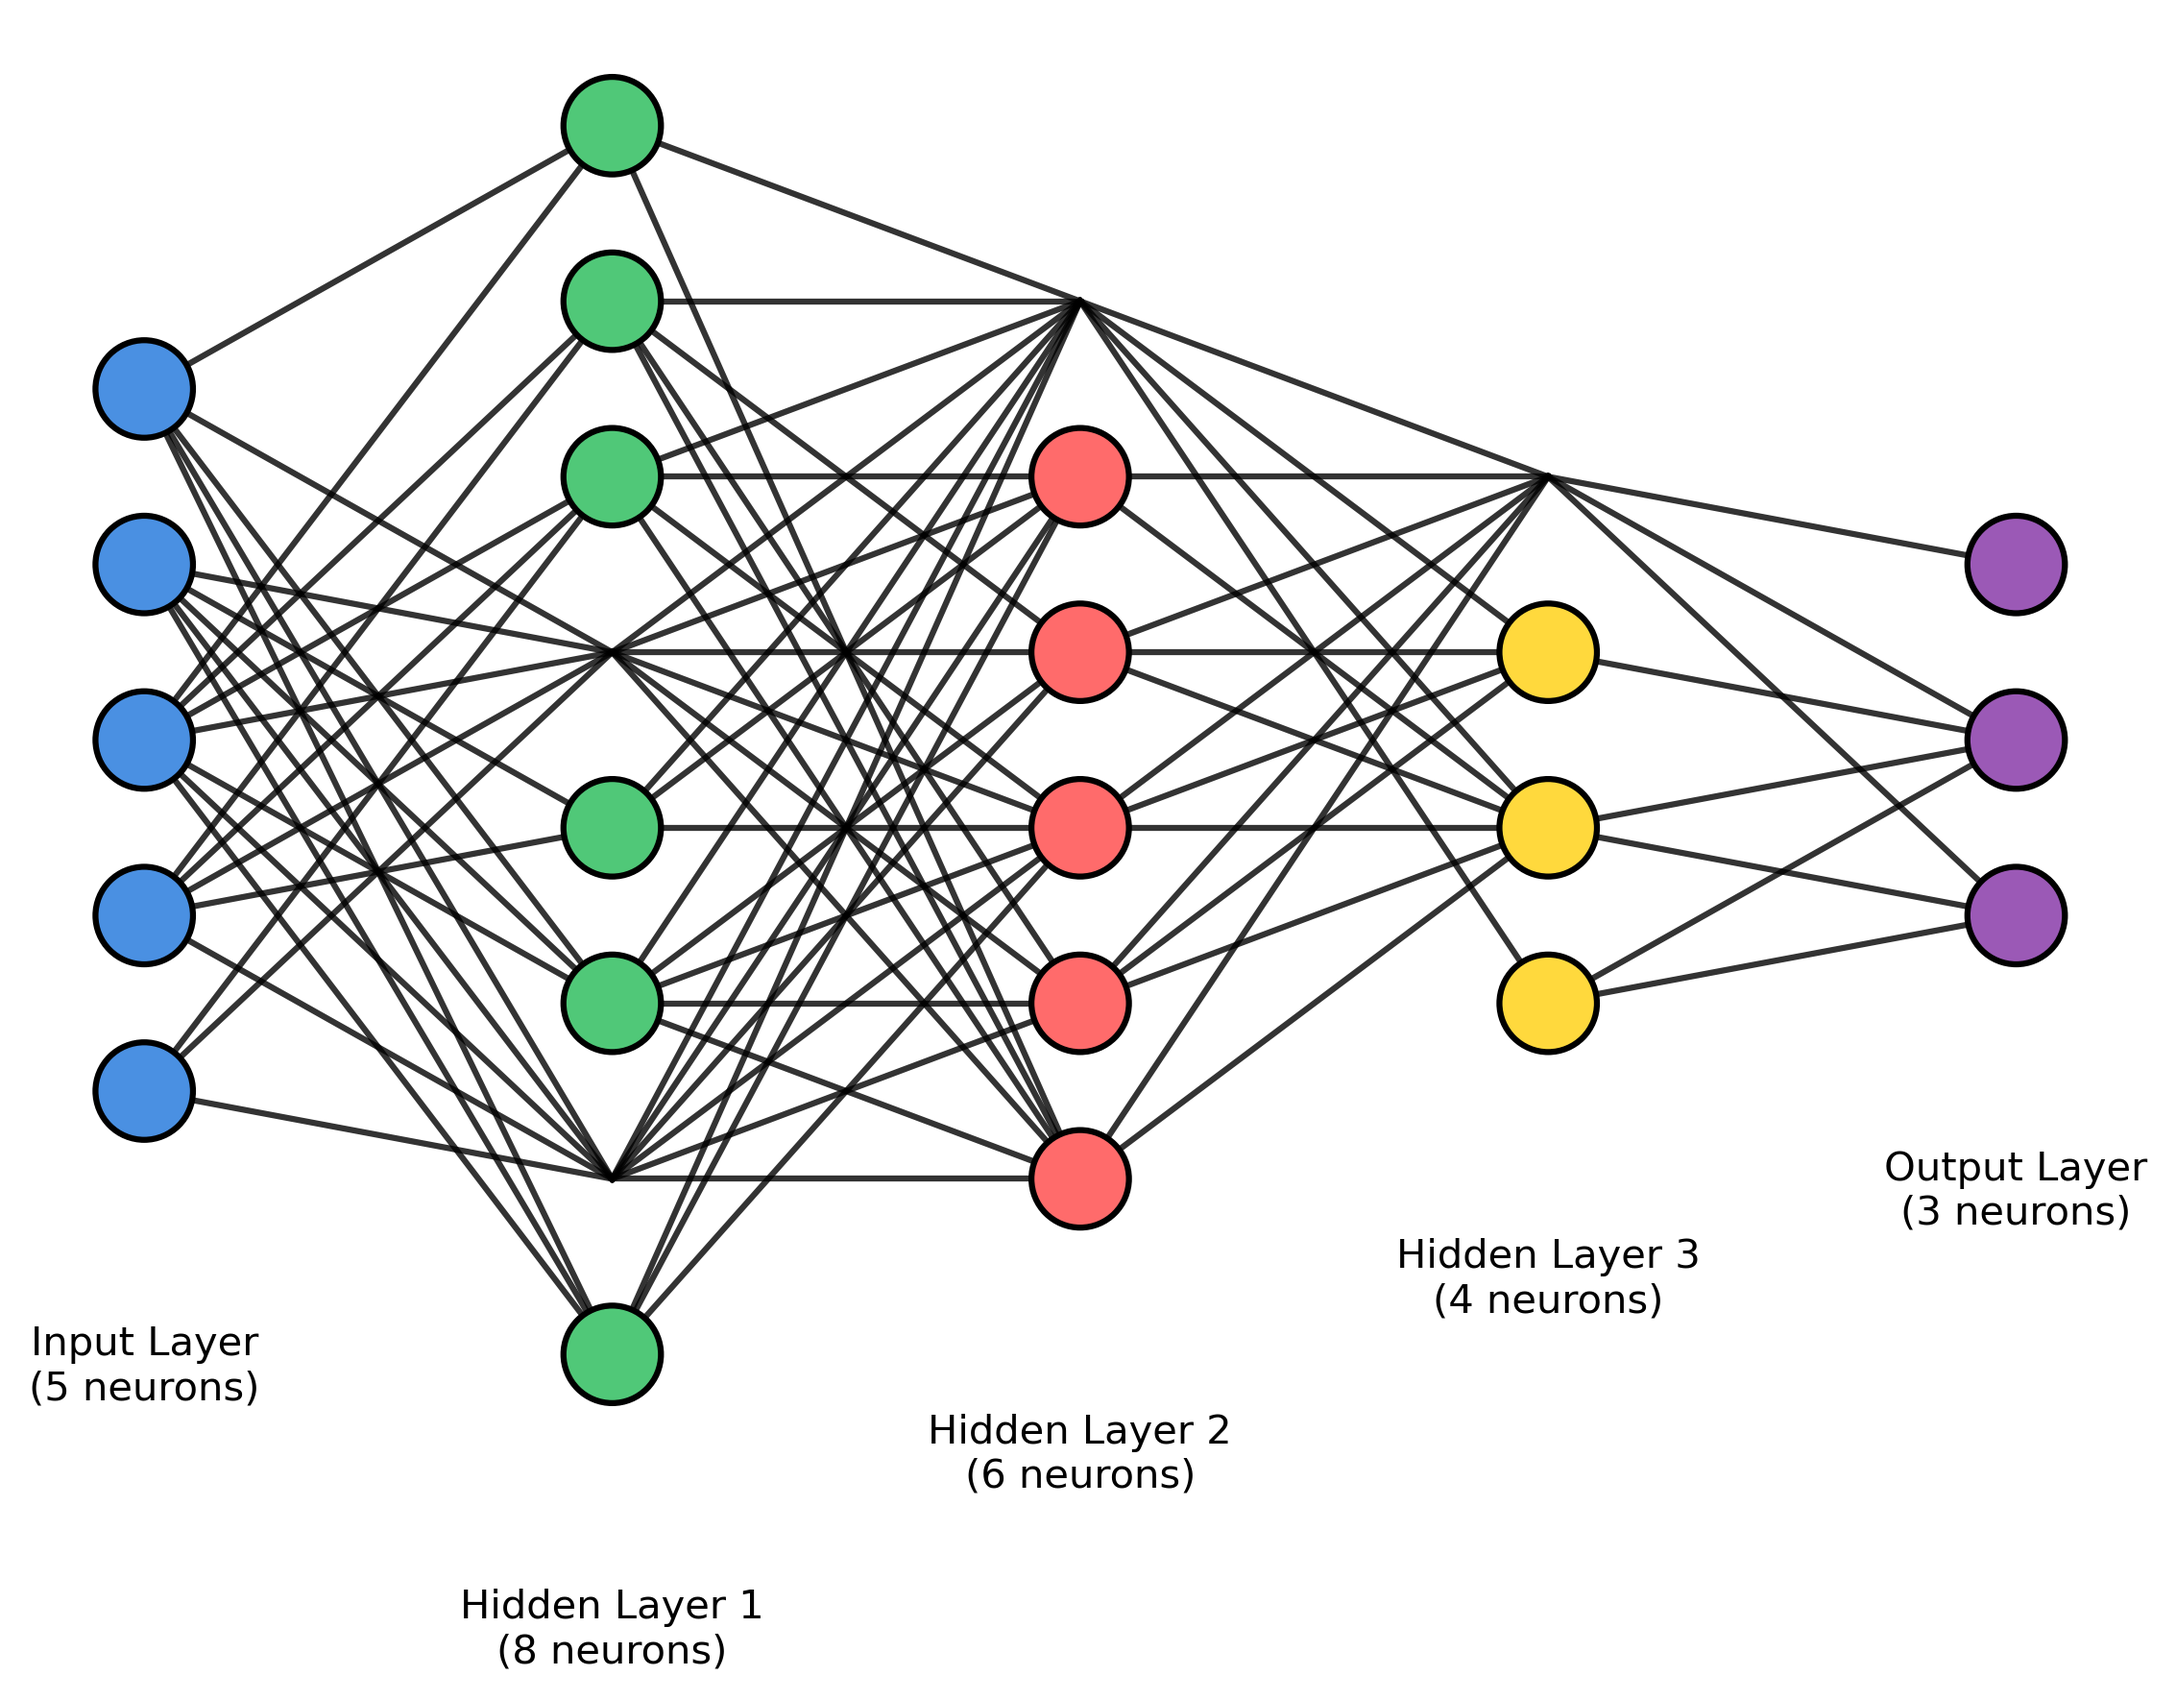
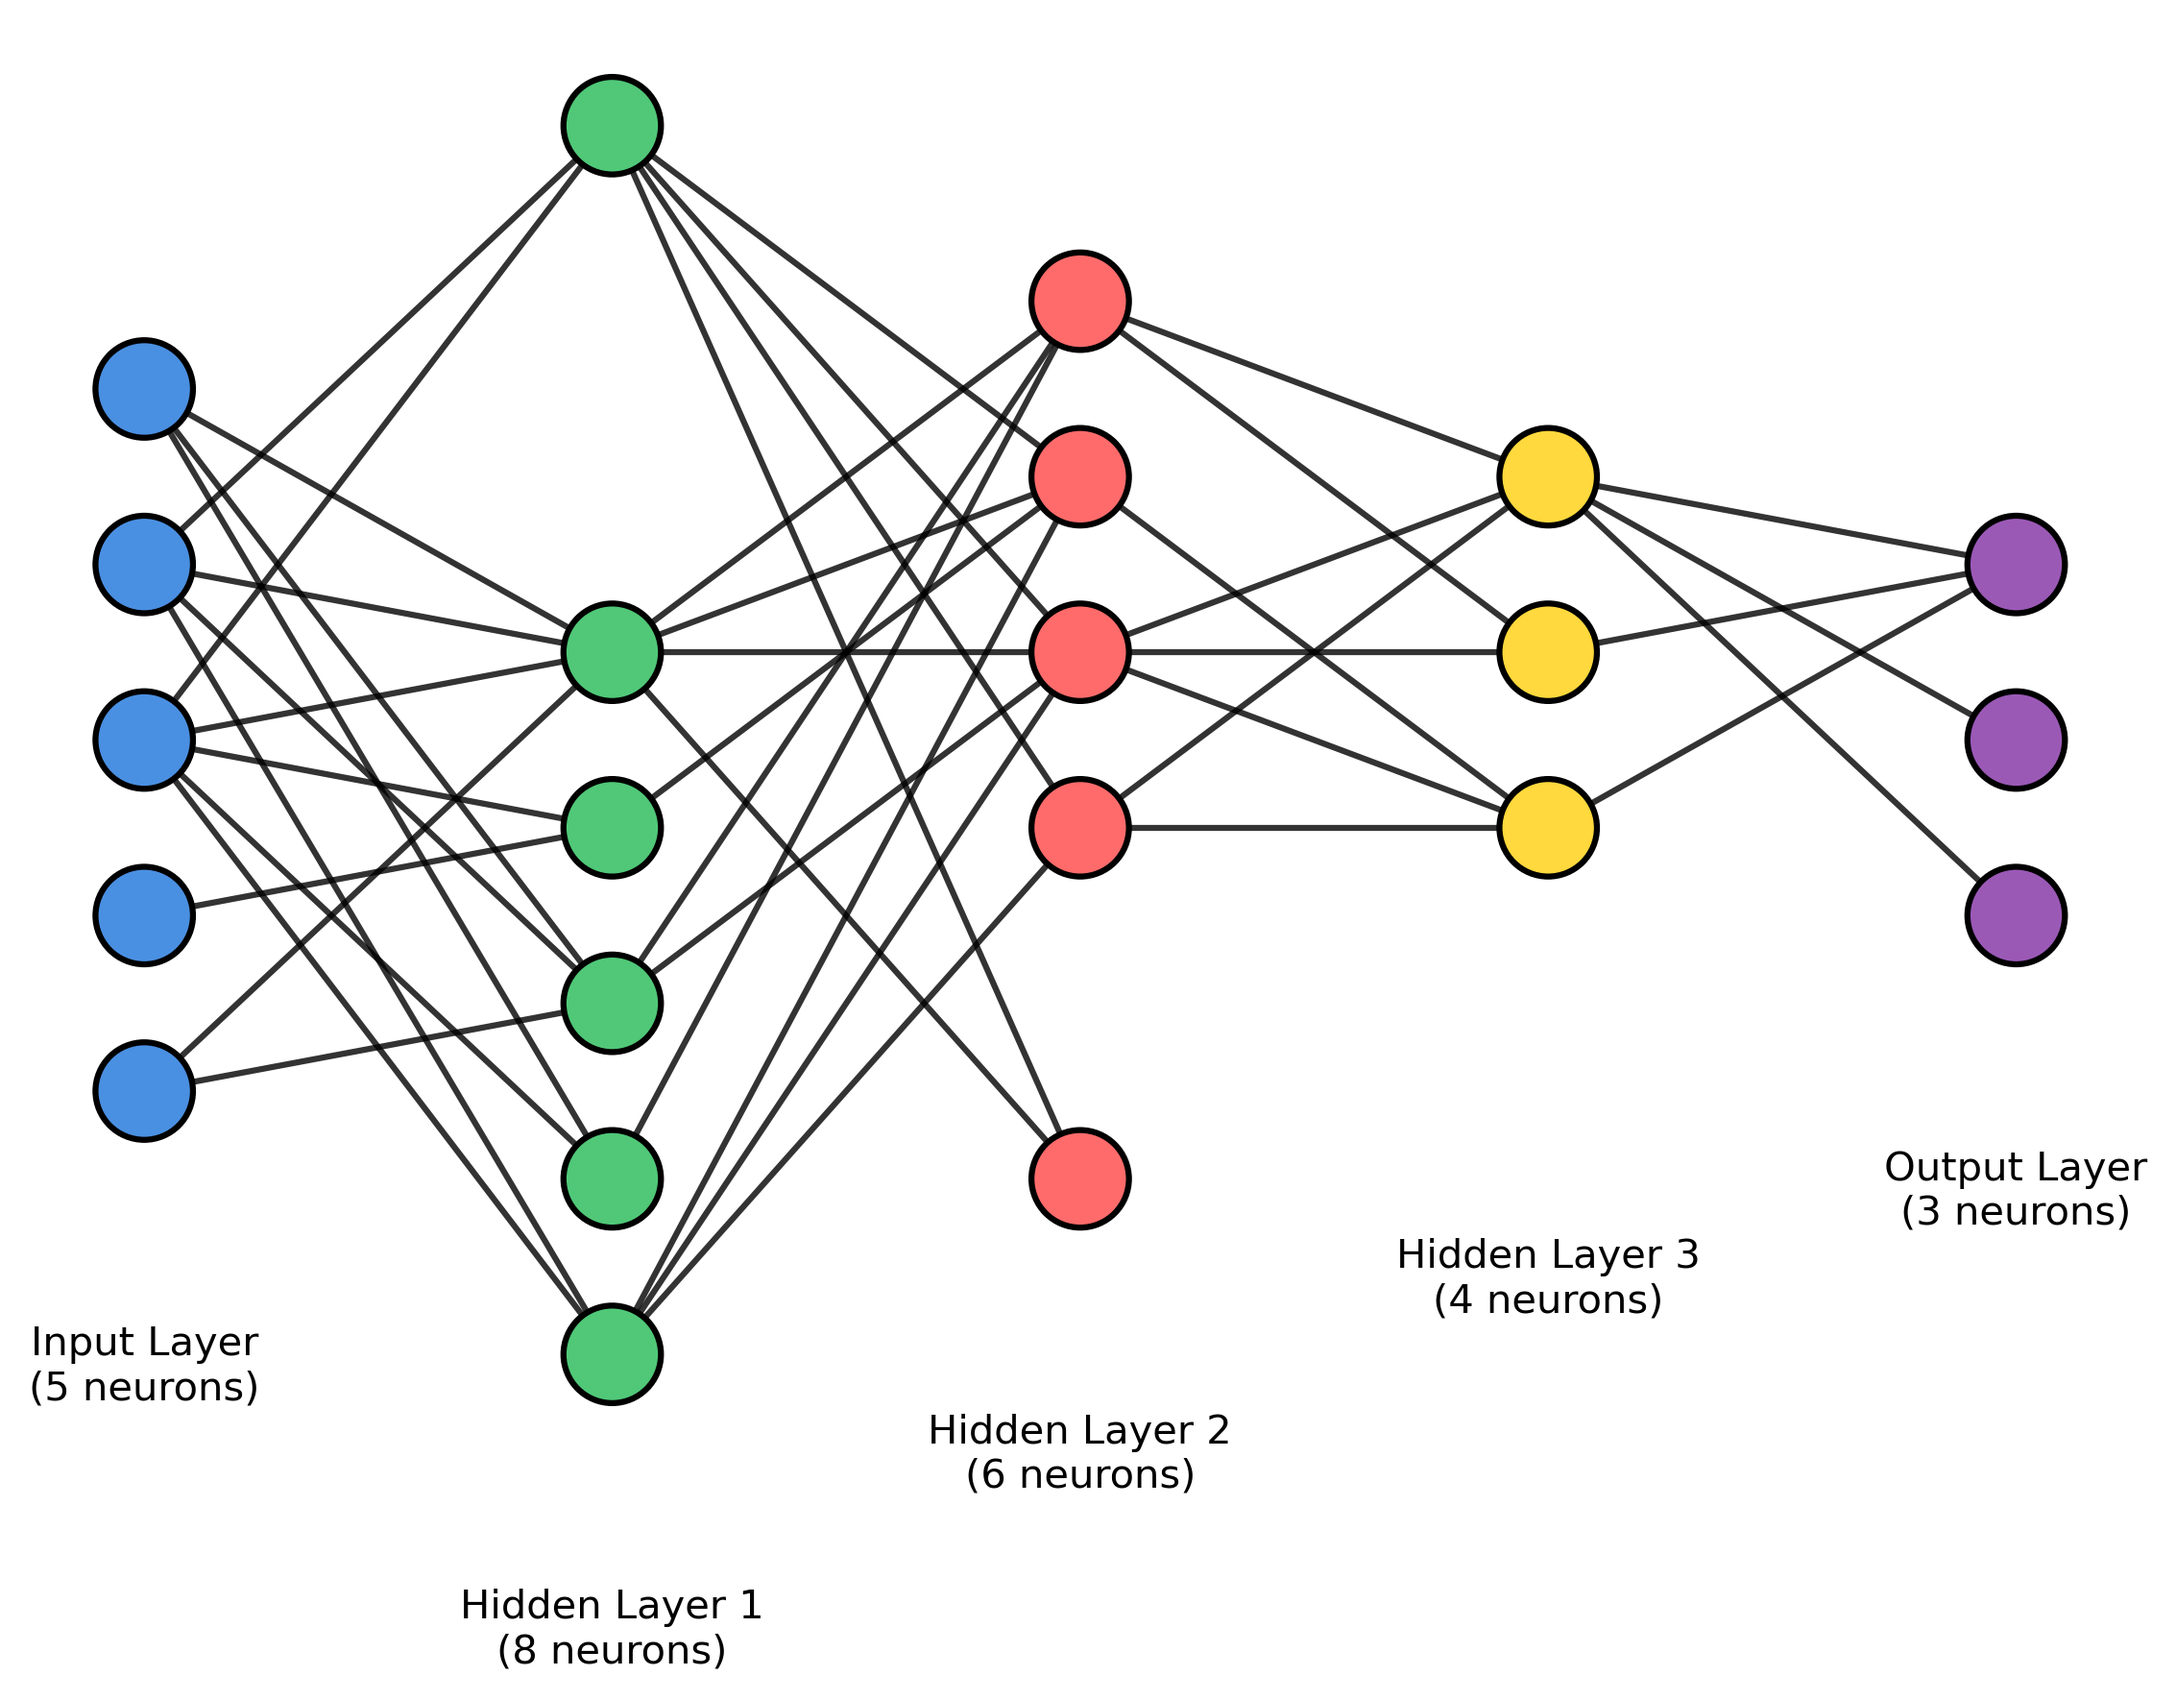
Update pruning images and improve error handling in GUI. Replace generic exception handling with specific logging for pruning value updates. Modify MLPGenerator to use a local random seed for consistent pruning patterns.

diff --git a/src/gui_app.py b/src/gui_app.py
@@ -308,8 +308,9 @@ class MLPVisualizerGUI:
                 if hasattr(self, 'pruning_value_labels'):
                     self.pruning_value_labels['neuron'].config(text=f"{self.neuron_prune_var.get():.0f}%")
                     self.pruning_value_labels['synapse'].config(text=f"{self.synapse_prune_var.get():.0f}%")
-            except:
-                pass
+            except (AttributeError, ValueError) as e:
+                import logging
+                logging.error(f"Error updating pruning value labels: {e}")
         self.update_value_labels = updated_update_value_labels
     
     def apply_random_pruning(self):

diff --git a/src/mlp_generator.py b/src/mlp_generator.py
@@ -73,7 +73,7 @@ class MLPGenerator:
         # This ensures the same pruning pattern for the same configuration
         seed_str = f"{neuron_prune_pct}_{synapse_prune_pct}_{len(layers)}_{'-'.join(map(str, layers))}"
         seed = abs(hash(seed_str)) % 2**32
-        random.seed(seed)
+        local_random = random.Random(seed)
         
         pruned_neurons = set()  # (layer_idx, neuron_idx)
         pruned_connections = set()  # (from_layer, from_neuron, to_layer, to_neuron)
